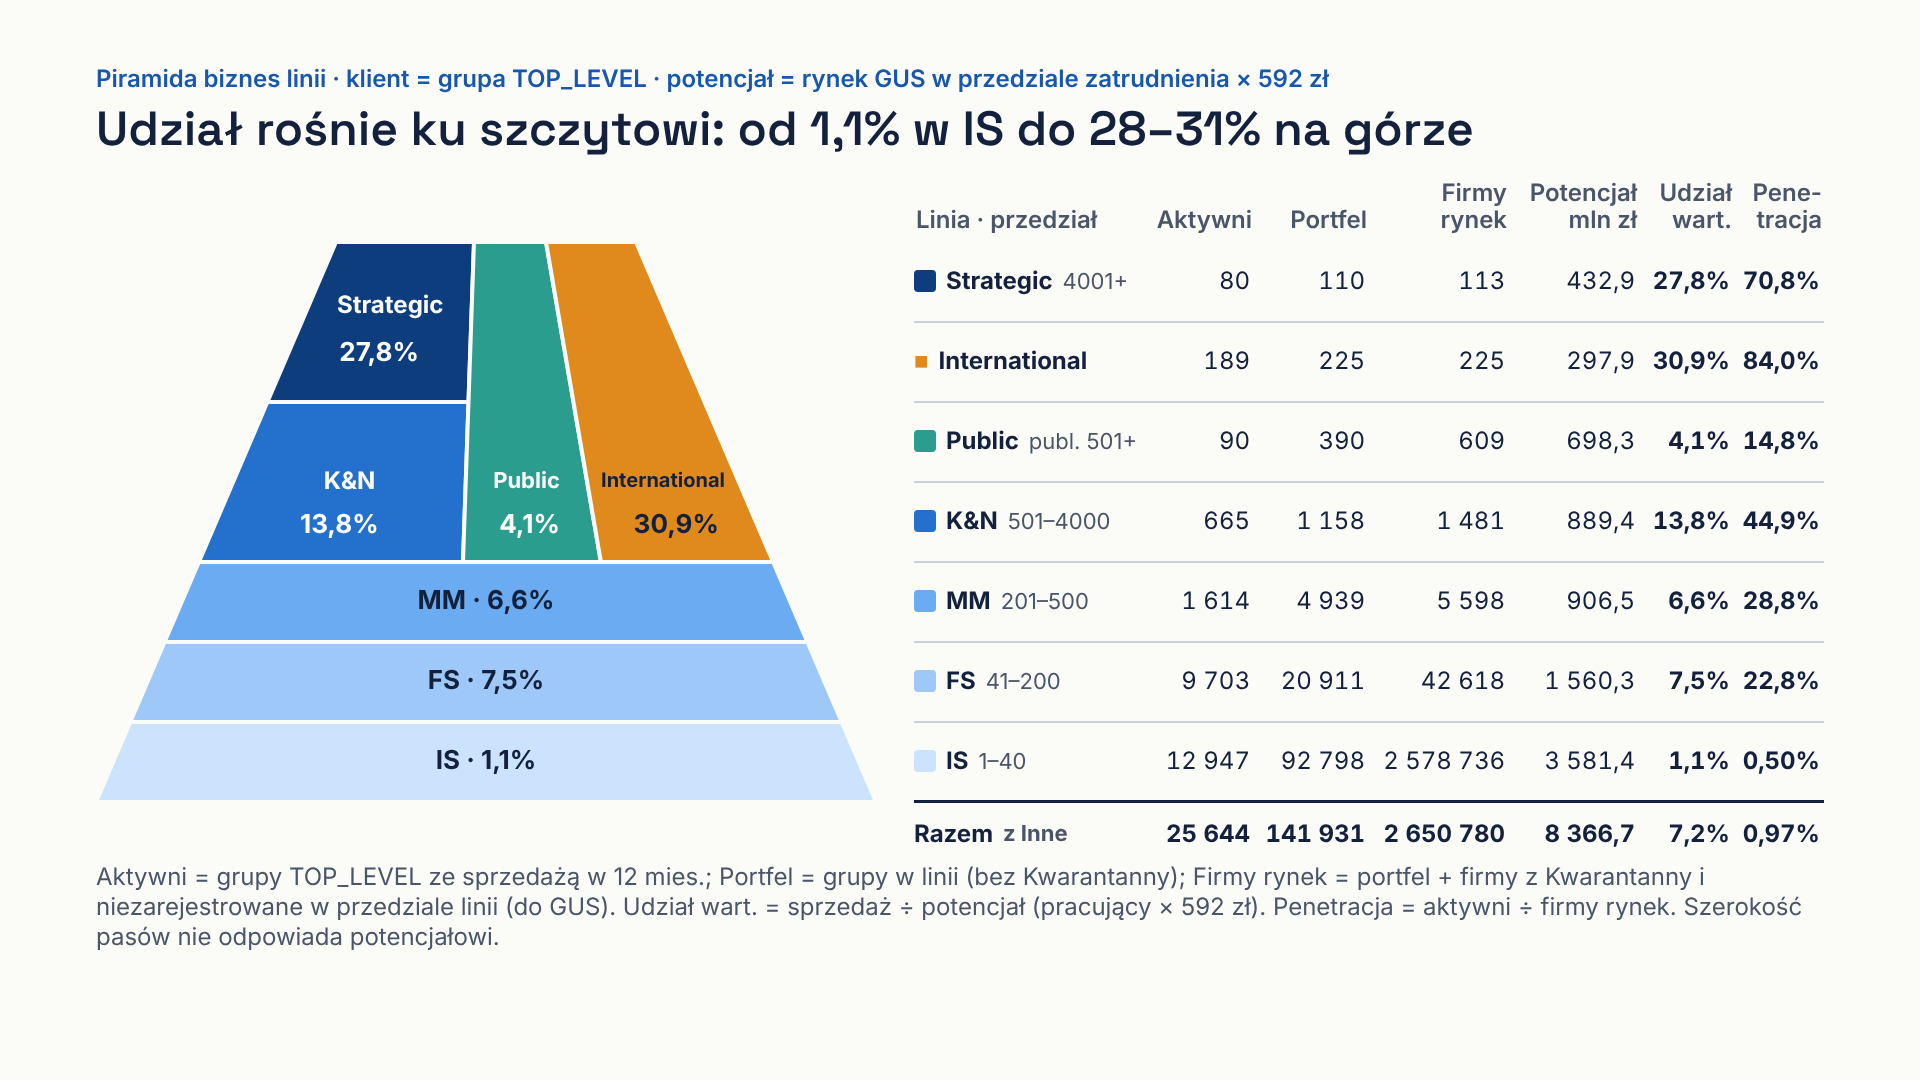
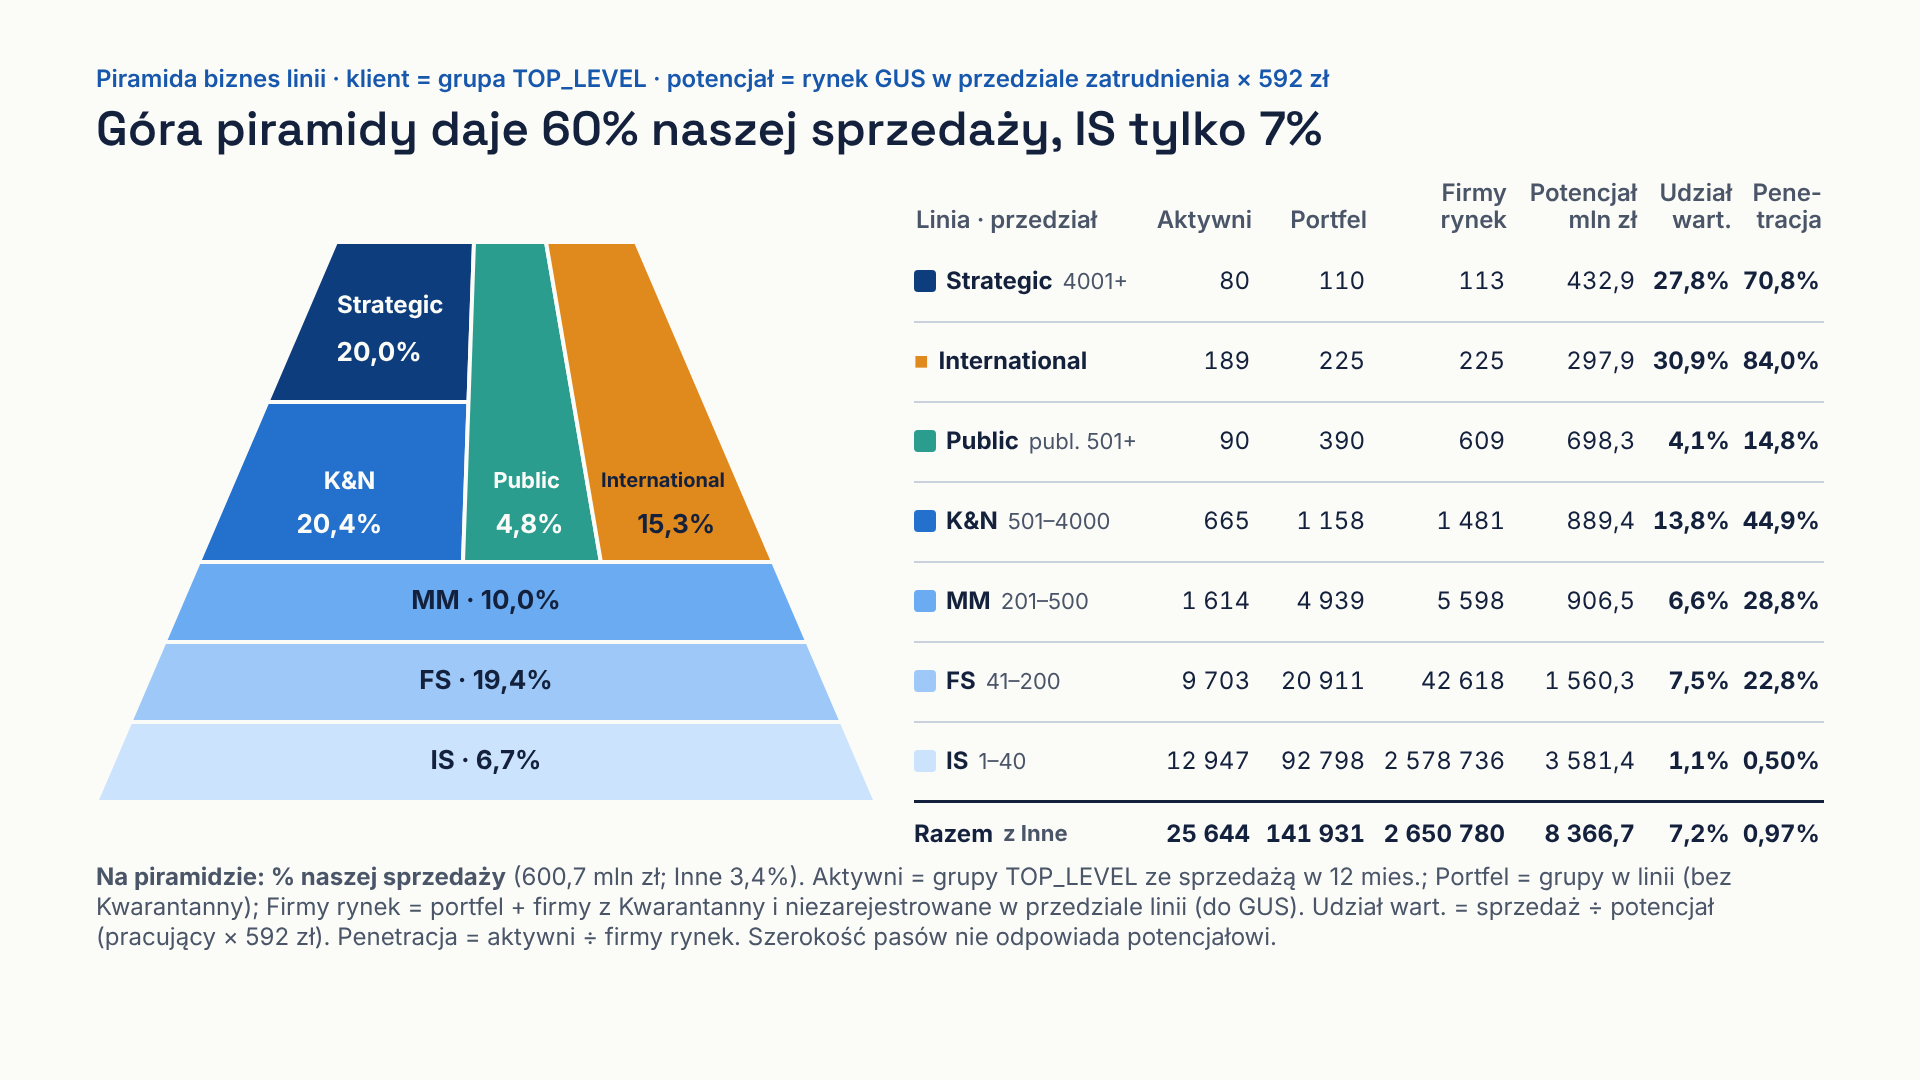
Piramida BL: na warstwach % naszej sprzedazy
Claude-Session: https://claude.ai/code/session_01XKqyymM4iGumhJbEjTSpGW

diff --git a/piramida_klientow/prezentacja/slajd_gus_x_biznes_linie/slides/piramida_bl.html b/piramida_klientow/prezentacja/slajd_gus_x_biznes_linie/slides/piramida_bl.html
@@ -1,8 +1,8 @@
 <section id="piramida_bl" class="slajd">
 <p class="eyebrow">Piramida biznes linii · klient = grupa TOP_LEVEL · potencjał = rynek GUS w przedziale zatrudnienia × 592 zł</p>
-<h2 class="tytul">Udział rośnie ku szczytowi: od 1,1% w IS do 28–31% na górze</h2>
+<h2 class="tytul">Góra piramidy daje 60% naszej sprzedaży, IS tylko 7%</h2>
 <div class="pir-wrap">
-<div class="pir-lewa"><svg class="pir-svg" viewBox="0 0 780 560" width="780" height="560" role="img" aria-label="Piramida biznes linii"><polygon points="240.0,0.0 378.0,0.0 372.5,160.0 171.4,160.0" fill="#0E3D7E" stroke="#FBFBF8" stroke-width="4"/><polygon points="171.4,160.0 372.5,160.0 367.0,320.0 102.9,320.0" fill="#2370CD" stroke="#FBFBF8" stroke-width="4"/><polygon points="378.0,0.0 450.0,0.0 504.9,320.0 367.0,320.0" fill="#2A9D8F" stroke="#FBFBF8" stroke-width="4"/><polygon points="450.0,0.0 540.0,0.0 677.1,320.0 504.9,320.0" fill="#E08A1E" stroke="#FBFBF8" stroke-width="4"/><polygon points="102.9,320.0 677.1,320.0 711.4,400.0 68.6,400.0" fill="#6AABF1" stroke="#FBFBF8" stroke-width="4"/><polygon points="68.6,400.0 711.4,400.0 745.7,480.0 34.3,480.0" fill="#9DC8F7" stroke="#FBFBF8" stroke-width="4"/><polygon points="34.3,480.0 745.7,480.0 780.0,560.0 0.0,560.0" fill="#CCE3FD" stroke="#FBFBF8" stroke-width="4"/><text x="294.2" y="64.0" fill="#FBFBF8" font-size="24" font-weight="700" text-anchor="middle" dominant-baseline="middle" font-family="Inter, Arial, sans-serif">Strategic</text><text x="283.1" y="112.0" fill="#FBFBF8" font-size="26" font-weight="700" text-anchor="middle" dominant-baseline="middle" font-family="Inter, Arial, sans-serif">27,8%</text><text x="253.5" y="240.0" fill="#FBFBF8" font-size="24" font-weight="700" text-anchor="middle" dominant-baseline="middle" font-family="Inter, Arial, sans-serif">K&amp;N</text><text x="243.3" y="284.0" fill="#FBFBF8" font-size="26" font-weight="700" text-anchor="middle" dominant-baseline="middle" font-family="Inter, Arial, sans-serif">13,8%</text><text x="430.5" y="240.0" fill="#FBFBF8" font-size="22" font-weight="700" text-anchor="middle" dominant-baseline="middle" font-family="Inter, Arial, sans-serif">Public</text><text x="433.5" y="284.0" fill="#FBFBF8" font-size="26" font-weight="700" text-anchor="middle" dominant-baseline="middle" font-family="Inter, Arial, sans-serif">4,1%</text><text x="567.0" y="240.0" fill="#14213D" font-size="20" font-weight="700" text-anchor="middle" dominant-baseline="middle" font-family="Inter, Arial, sans-serif">International</text><text x="580.2" y="284.0" fill="#14213D" font-size="26" font-weight="700" text-anchor="middle" dominant-baseline="middle" font-family="Inter, Arial, sans-serif">30,9%</text><text x="390.0" y="360.0" fill="#14213D" font-size="26" font-weight="700" text-anchor="middle" dominant-baseline="middle" font-family="Inter, Arial, sans-serif">MM · 6,6%</text><text x="390.0" y="440.0" fill="#14213D" font-size="26" font-weight="700" text-anchor="middle" dominant-baseline="middle" font-family="Inter, Arial, sans-serif">FS · 7,5%</text><text x="390.0" y="520.0" fill="#14213D" font-size="26" font-weight="700" text-anchor="middle" dominant-baseline="middle" font-family="Inter, Arial, sans-serif">IS · 1,1%</text></svg></div>
+<div class="pir-lewa"><svg class="pir-svg" viewBox="0 0 780 560" width="780" height="560" role="img" aria-label="Piramida biznes linii"><polygon points="240.0,0.0 378.0,0.0 372.5,160.0 171.4,160.0" fill="#0E3D7E" stroke="#FBFBF8" stroke-width="4"/><polygon points="171.4,160.0 372.5,160.0 367.0,320.0 102.9,320.0" fill="#2370CD" stroke="#FBFBF8" stroke-width="4"/><polygon points="378.0,0.0 450.0,0.0 504.9,320.0 367.0,320.0" fill="#2A9D8F" stroke="#FBFBF8" stroke-width="4"/><polygon points="450.0,0.0 540.0,0.0 677.1,320.0 504.9,320.0" fill="#E08A1E" stroke="#FBFBF8" stroke-width="4"/><polygon points="102.9,320.0 677.1,320.0 711.4,400.0 68.6,400.0" fill="#6AABF1" stroke="#FBFBF8" stroke-width="4"/><polygon points="68.6,400.0 711.4,400.0 745.7,480.0 34.3,480.0" fill="#9DC8F7" stroke="#FBFBF8" stroke-width="4"/><polygon points="34.3,480.0 745.7,480.0 780.0,560.0 0.0,560.0" fill="#CCE3FD" stroke="#FBFBF8" stroke-width="4"/><text x="294.2" y="64.0" fill="#FBFBF8" font-size="24" font-weight="700" text-anchor="middle" dominant-baseline="middle" font-family="Inter, Arial, sans-serif">Strategic</text><text x="283.1" y="112.0" fill="#FBFBF8" font-size="26" font-weight="700" text-anchor="middle" dominant-baseline="middle" font-family="Inter, Arial, sans-serif">20,0%</text><text x="253.5" y="240.0" fill="#FBFBF8" font-size="24" font-weight="700" text-anchor="middle" dominant-baseline="middle" font-family="Inter, Arial, sans-serif">K&amp;N</text><text x="243.3" y="284.0" fill="#FBFBF8" font-size="26" font-weight="700" text-anchor="middle" dominant-baseline="middle" font-family="Inter, Arial, sans-serif">20,4%</text><text x="430.5" y="240.0" fill="#FBFBF8" font-size="22" font-weight="700" text-anchor="middle" dominant-baseline="middle" font-family="Inter, Arial, sans-serif">Public</text><text x="433.5" y="284.0" fill="#FBFBF8" font-size="26" font-weight="700" text-anchor="middle" dominant-baseline="middle" font-family="Inter, Arial, sans-serif">4,8%</text><text x="567.0" y="240.0" fill="#14213D" font-size="20" font-weight="700" text-anchor="middle" dominant-baseline="middle" font-family="Inter, Arial, sans-serif">International</text><text x="580.2" y="284.0" fill="#14213D" font-size="26" font-weight="700" text-anchor="middle" dominant-baseline="middle" font-family="Inter, Arial, sans-serif">15,3%</text><text x="390.0" y="360.0" fill="#14213D" font-size="26" font-weight="700" text-anchor="middle" dominant-baseline="middle" font-family="Inter, Arial, sans-serif">MM · 10,0%</text><text x="390.0" y="440.0" fill="#14213D" font-size="26" font-weight="700" text-anchor="middle" dominant-baseline="middle" font-family="Inter, Arial, sans-serif">FS · 19,4%</text><text x="390.0" y="520.0" fill="#14213D" font-size="26" font-weight="700" text-anchor="middle" dominant-baseline="middle" font-family="Inter, Arial, sans-serif">IS · 6,7%</text></svg></div>
 <div class="pir-tab">
 <p class="kol kol-l">Linia · przedział</p>
 <p class="kol kol-r">Aktywni</p>
@@ -69,8 +69,8 @@
 <p class="pt-n pt-b pt-raz">0,97%</p>
 </div>
 </div>
-<p class="przypis">Aktywni = grupy TOP_LEVEL ze sprzedażą w 12 mies.; Portfel = grupy w linii (bez Kwarantanny); Firmy rynek = portfel + firmy z Kwarantanny i niezarejestrowane w przedziale linii (do GUS). Udział wart. = sprzedaż ÷ potencjał (pracujący × 592 zł). Penetracja = aktywni ÷ firmy rynek. Szerokość pasów nie odpowiada potencjałowi.</p>
-<aside>Ta sama treść co slajd 3, w formie piramidy. Od dołu: IS (firmy 1–40 osób), FS (41–200), MM (201–500), a na górze K&N (501–4000) i Strategic (4001+). Górną część dzielą trzy kolory: K&N ze Strategic, Public (sektor publiczny 501+) i International (jego klienci) – bo Public i International obsługują ten sam segment dużych organizacji.
+<p class="przypis"><b>Na piramidzie: % naszej sprzedaży</b> (600,7 mln zł; Inne 3,4%). Aktywni = grupy TOP_LEVEL ze sprzedażą w 12 mies.; Portfel = grupy w linii (bez Kwarantanny); Firmy rynek = portfel + firmy z Kwarantanny i niezarejestrowane w przedziale linii (do GUS). Udział wart. = sprzedaż ÷ potencjał (pracujący × 592 zł). Penetracja = aktywni ÷ firmy rynek. Szerokość pasów nie odpowiada potencjałowi.</p>
+<aside>Ta sama treść co slajd 3, w formie piramidy. Procenty na warstwach to udział linii w całej naszej sprzedaży: IS 6,7%, FS 19,4%, MM 10,0%, K&N 20,4%, Strategic 20,0%, Public 4,8%, International 15,3% (Inne 3,4%). Od dołu: IS (firmy 1–40 osób), FS (41–200), MM (201–500), a na górze K&N (501–4000) i Strategic (4001+). Górną część dzielą trzy kolory: K&N ze Strategic, Public (sektor publiczny 501+) i International (jego klienci) – bo Public i International obsługują ten sam segment dużych organizacji.
 
 Tabela: aktywni (grupy ze sprzedażą), portfel (wszystkie grupy linii), firmy rynek, potencjał wartościowy, udział wartościowy (sprzedaż ÷ potencjał) i penetracja (aktywni ÷ firmy rynek). Szerokość pasów nie jest proporcjonalna do potencjału.
 
